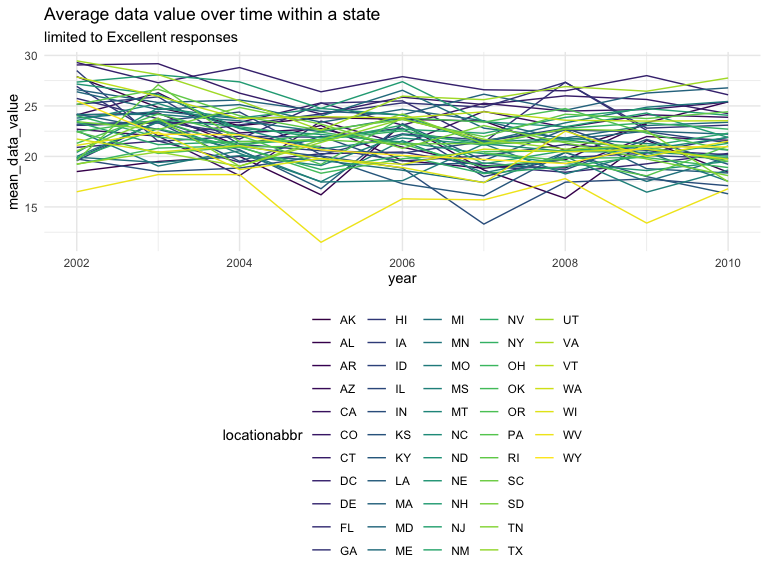
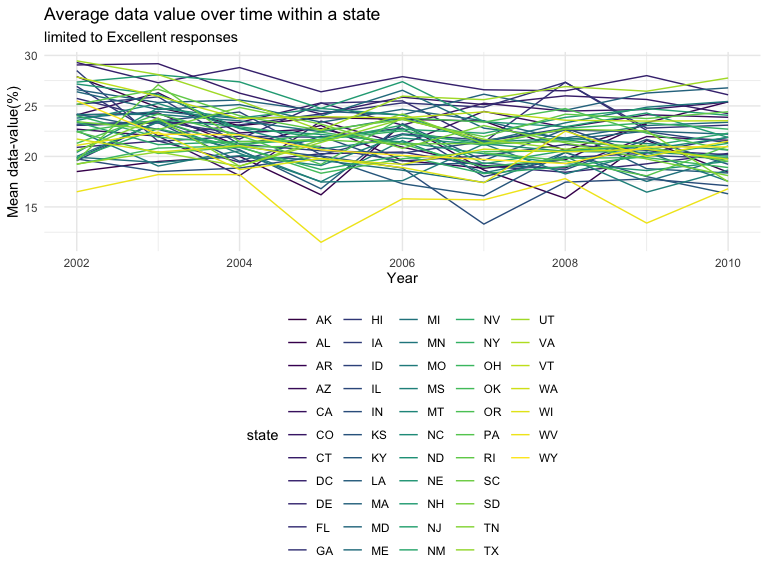
Problem2 comment

diff --git a/P8105_hw3_gl2677.md b/P8105_hw3_gl2677.md
@@ -459,77 +459,105 @@ data("brfss_smart2010")
 overall_health = brfss_smart2010 %>% 
   janitor::clean_names() %>% 
   filter(topic == "Overall Health" & response !="Very good") %>% 
-  mutate(response = forcats::fct_relevel(response, c("Poor", "Good", "Fair", "Excellent"))) 
+  mutate(response = forcats::fct_relevel(response, c("Poor", "Fair", "Good",  "Excellent")),
+         state = locationabbr,
+         county = locationdesc) 
 ```
 
 ``` r
 states_2002 = overall_health %>% 
   filter(year == 2002) %>% 
-  group_by(locationabbr) %>% 
+  group_by(state) %>% 
   summarize(n = n()) %>% 
   filter(n >= 7) %>% 
-  pull(locationabbr)
+  arrange(desc(n)) 
 
 states_2010 = overall_health %>% 
   filter(year == 2010) %>% 
-  group_by(locationabbr) %>% 
+  group_by(state) %>% 
   summarize(n = n()) %>% 
   filter(n >= 7) %>% 
-  pull(locationabbr)
+  arrange(desc(n)) 
 ```
 
-  - In 2002, total `36` states (`AZ, CO, CT, DE, FL, GA, HI, ID, IL, IN,
-    KS, LA, MA, MD, ME, MI, MN, MO, NC, NE, NH, NJ, NV, NY, OH, OK, OR,
-    PA, RI, SC, SD, TN, TX, UT, VT, WA`) were observed at 7 or more
-    locations. In 2010, total `45` states (`AL, AR, AZ, CA, CO, CT, DE,
-    FL, GA, HI, IA, ID, IL, IN, KS, LA, MA, MD, ME, MI, MN, MO, MS, MT,
-    NC, ND, NE, NH, NJ, NM, NV, NY, OH, OK, OR, PA, RI, SC, SD, TN, TX,
-    UT, VT, WA, WY`) were observed at 7 or more locations.
+  - In 2002, total `36` states (\[most locations first\]`PA, MA, NJ, CT,
+    FL, NC, MD, NH, NY, UT, CO, HI, MI, MN, OH, RI, WA, DE, GA, IL, KS,
+    LA, NE, OK, OR, SC, VT, AZ, ID, IN, ME, MO, NV, SD, TN, TX`) were
+    observed at 7 or more locations. The range of the number of
+    locations in the state is from 40 to 8.
+  - In 2010, total `45` states (\[most locations first\]`FL, NJ, TX, CA,
+    MD, NC, NE, WA, MA, NY, OH, CO, PA, SC, ID, ME, NM, UT, VT, CT, LA,
+    MN, NH, RI, TN, GA, HI, KS, MI, OR, AL, AR, AZ, DE, IN, MO, MT, ND,
+    OK, IA, IL, MS, NV, SD, WY`) were observed at 7 or more locations.
+    The range of the number of locations in the state is from 164 to 8.
+  - The maximum number of locations in the state increase in 2010
+    comparing to 2002.
 
 <!-- end list -->
 
 ``` r
 overall_health %>% 
   filter(response == "Excellent") %>% 
-  group_by(locationabbr,year) %>% 
+  group_by(state,year) %>% 
   summarize(mean_data_value = mean(data_value)) %>% 
-  ggplot(aes(x = year, y = mean_data_value, color = locationabbr)) +
+  arrange(mean_data_value) %>% 
+  ggplot(aes(x = year, y = mean_data_value, color = state)) +
   geom_line() +
   labs(title = "Average data value over time within a state",
-       subtitle = "limited to Excellent responses")
+       subtitle = "limited to Excellent responses",
+       x = "Year",
+       y = "Mean data-value(%)")
 ```
 
 <img src="P8105_hw3_gl2677_files/figure-gfm/excellent-1.png" width="90%" />
 
+  - Most of states share the similar pattern of mean `data_value`, and
+    it fluctuates between 15% and 30%. However, mean`data_value` of
+    state `WV` in 2005 and 2009, and state `IN` in 2007 is obviously
+    lower than 15%.
+
+<!-- end list -->
+
 ``` r
 data_value_2006 = overall_health %>%
   filter(year == 2006) %>% 
-  filter(locationabbr == "NY") %>% 
+  filter(state == "NY") %>% 
   group_by(response) %>% 
-  ggplot(aes(x = locationdesc, y = data_value, 
+  ggplot(aes(x = county, y = data_value, 
              color = response, group = response)) +
   geom_point() +
   geom_line() +
   theme(axis.text.x = element_text(angle = 45,hjust = 1),
         legend.position = "none") +
-  labs(title = "Distribution of data_value for responses among locations in NY State in 2006",
-       x = "")
+  labs(title = "Distribution of data-value for responses among locations in NY state in 2006",
+       x = "",
+       y = "Data-value(%)")
 
 data_value_2010 = overall_health %>%
   filter(year == 2010) %>% 
-  filter(locationabbr == "NY") %>% 
+  filter(state == "NY") %>% 
   group_by(response) %>% 
-  ggplot(aes(x = locationdesc, y = data_value, 
+  ggplot(aes(x = county, y = data_value, 
              color = response, group = response)) +
   geom_point() +
   geom_line() +
   theme(axis.text.x = element_text(angle = 45,hjust = 1))+
-  labs(title = "Distribution of data_value for responses among locations in NY State in 2010",
-       x = "")
+  labs(title = "Distribution of data-value for responses among locations in NY state in 2010",
+       x = "",
+       y = "Data-value(%)")
 data_value_2006 / data_value_2010
 ```
 
 <img src="P8105_hw3_gl2677_files/figure-gfm/two-panel-1.png" width="90%" />
+
+  - Most of counties in NY state share the similar pattern that `Poor`
+    response associates with lowest `data_value`, `Good` response
+    associates with highest `data_value`. `Excellent` response has
+    higher value than `Fair` response, but lower than`Good` response
+    both in 2006 and 2010.
+  - Only New York County has different pattern both in 2006 and 2010.
+    For New York County, `Excellent` response has the highest value ,and
+    `Good`, `Fair` and `Poor` responses are descending in order.
 
 ## Problem 3
 
